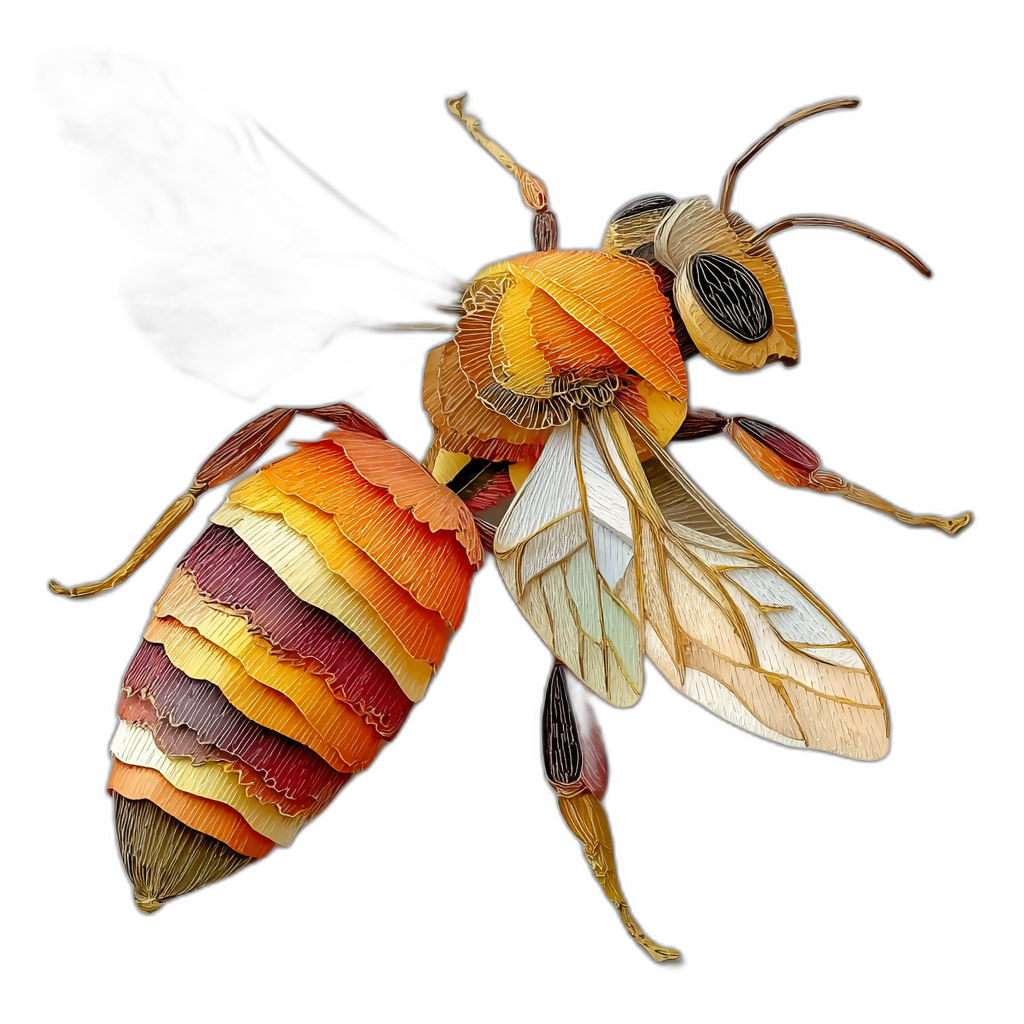
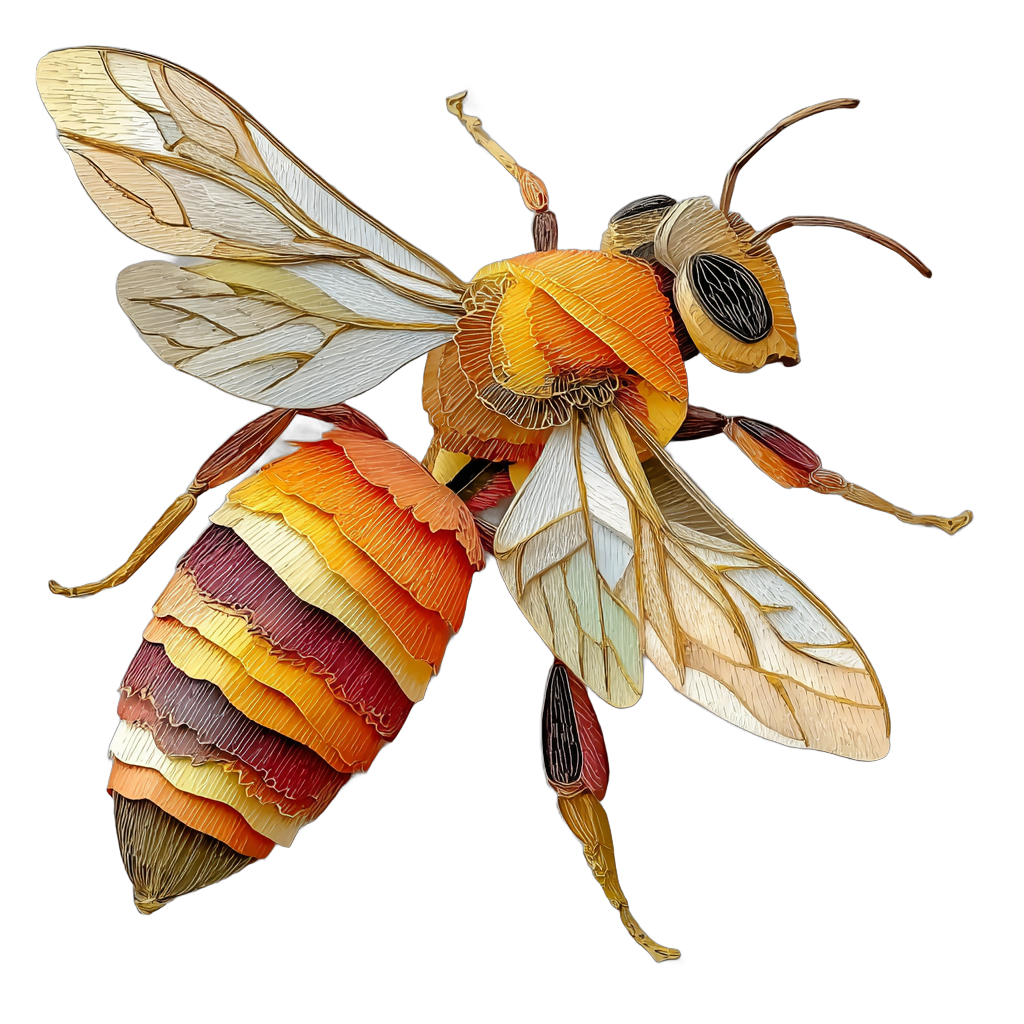
fix(landing): preserve bee wing transparency, single colored chevron on cards
- Re-process bee bg removal with isnet-general-use model to keep translucent wings
- Replace double arrow (text → + ArrowRight icon) with single ChevronRight
- Color explore link and chevron with archetype color at reduced opacity
- Remove → from link text strings

diff --git a/client/src/components/landing/ArchetypeCardsSection.tsx b/client/src/components/landing/ArchetypeCardsSection.tsx
@@ -10,7 +10,7 @@ export default function ArchetypeCardsSection() {
       latinName: "Apis mellifera",
       description:
         "For when you crave steadiness, warmth, and gentle care. The Bee guides you back to your body, your rhythm, and belonging — gentle, grounding, restorative.",
-      link: "Explore the Bees →",
+      link: "Explore the Bees",
     },
     {
       archetype: "hummingbird" as const,
@@ -20,7 +20,7 @@ export default function ArchetypeCardsSection() {
       latinName: "Colibri coruscans",
       description:
         "When you're seeking clarity, alignment, and truth. The Hummingbird helps you listen deeply to what's whispering within — light, precise, luminous.",
-      link: "Explore the Hummingbirds →",
+      link: "Explore the Hummingbirds",
     },
     {
       archetype: "butterfly" as const,
@@ -30,7 +30,7 @@ export default function ArchetypeCardsSection() {
       latinName: "Papilio machaon",
       description:
         "When life is transforming. The Butterfly reminds you that endings are gateways to new life — graceful, tender, liberating.",
-      link: "Explore the Butterflies →",
+      link: "Explore the Butterflies",
     },
     {
       archetype: "beetle" as const,
@@ -40,7 +40,7 @@ export default function ArchetypeCardsSection() {
       latinName: "Scarabaeus sacer",
       description:
         "For moments that call for depth and introspection. The Beetle walks with you through the dark, turning old stories into fertile soil — steady, alchemical, profound.",
-      link: "Explore the Beetles →",
+      link: "Explore the Beetles",
     },
   ];
 

diff --git a/client/src/components/landing/ArchetypeCard.tsx b/client/src/components/landing/ArchetypeCard.tsx
@@ -1,5 +1,5 @@
 import { Badge } from "@/components/ui/badge";
-import { ArrowRight } from "lucide-react";
+import { ChevronRight } from "lucide-react";
 import { useLocation } from "wouter";
 import { papercut } from "@/assets";
 
@@ -74,10 +74,11 @@ export default function ArchetypeCard({
           {/* Explore Link */}
           <button
             onClick={handleExplore}
-            className="inline-flex items-center text-forest/70 hover:text-forest font-medium text-sm transition-colors"
+            className="inline-flex items-center font-medium text-sm transition-colors"
+            style={{ color: `${badgeColor}90` }}
           >
             {link}
-            <ArrowRight className="ml-1 h-4 w-4" />
+            <ChevronRight className="ml-1 h-5 w-5" style={{ color: `${badgeColor}70` }} />
           </button>
         </div>
       </div>
